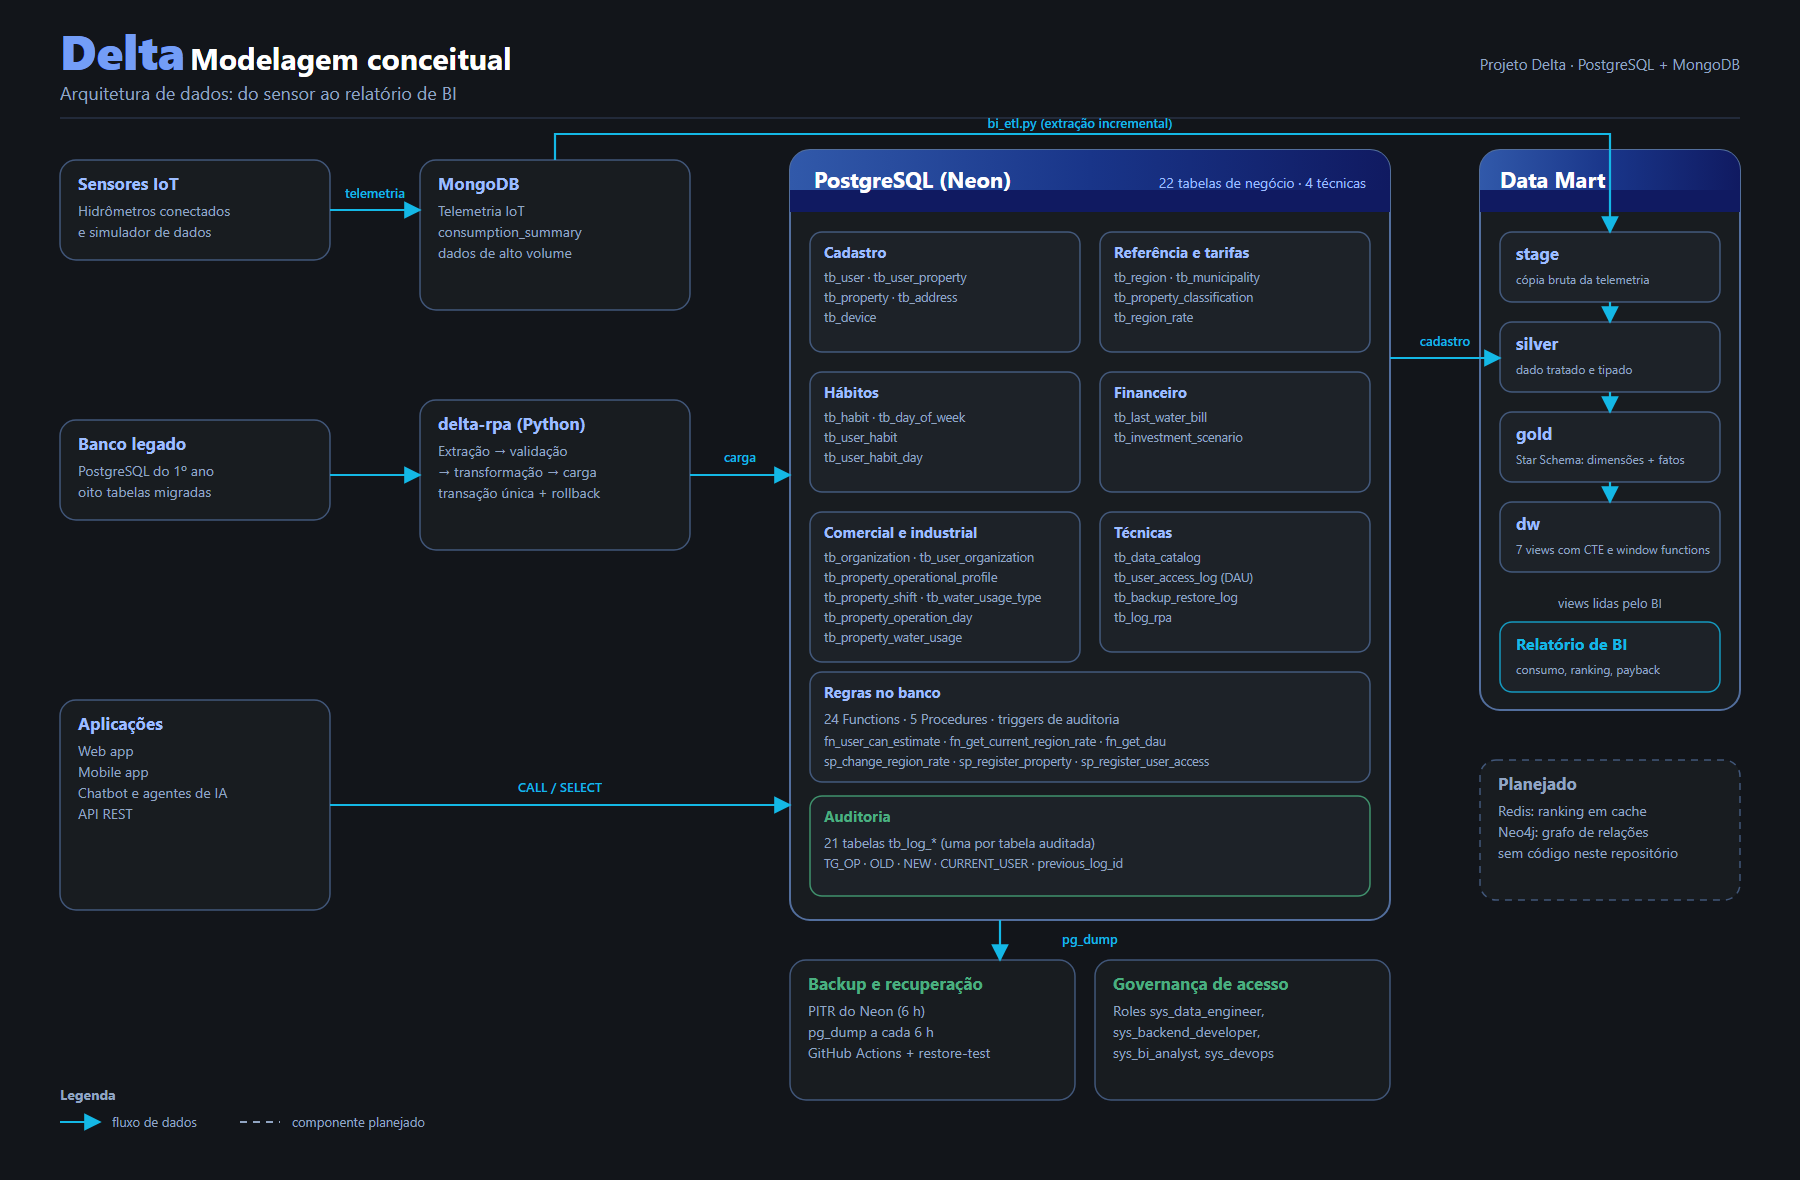
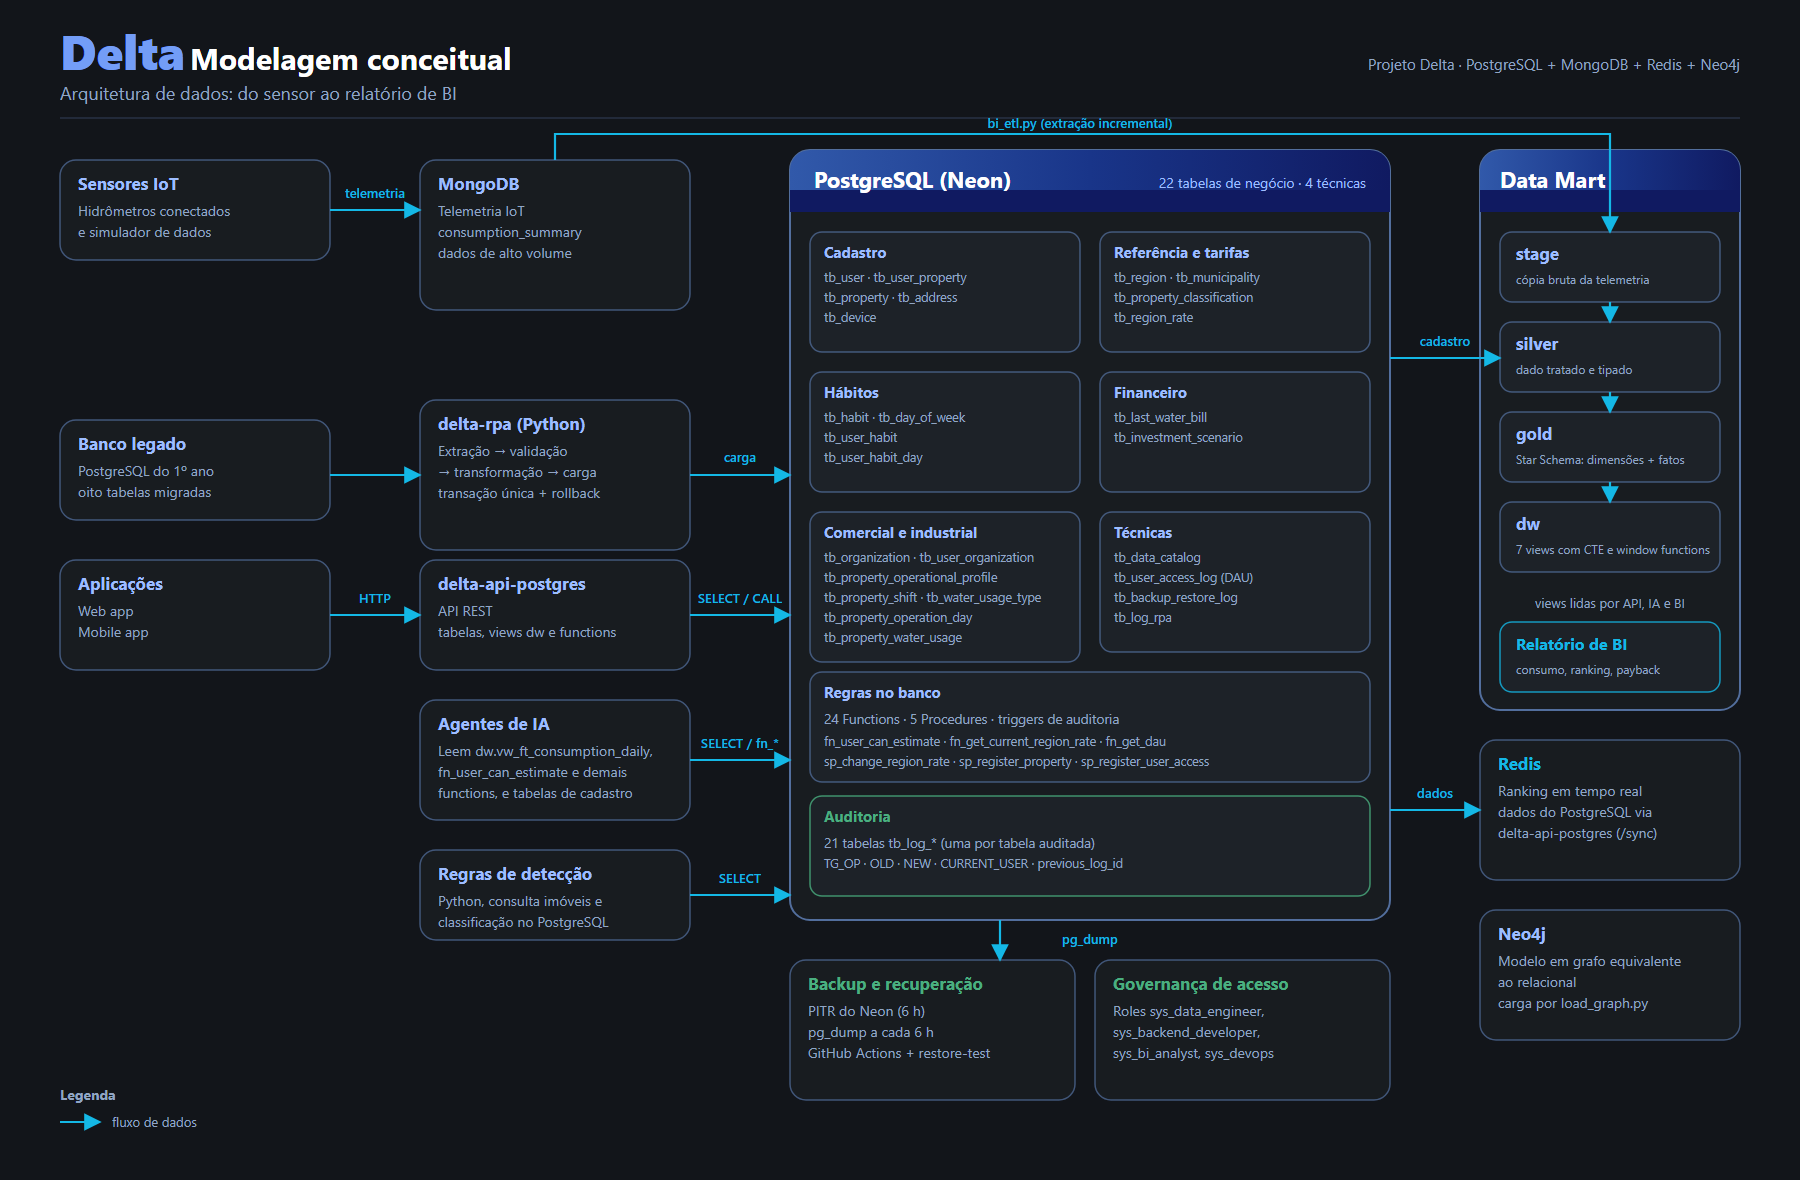
docs: atualiza modelagem conceitual com Redis e consumidores do PostgreSQL

diff --git a/DADOS/SQL/camada-bi.md b/DADOS/SQL/camada-bi.md
@@ -291,9 +291,12 @@ correspondente no Mongo ainda.
 
 ---
 
-## 9. Escopo e integrações
+## 9. Quem consome o PostgreSQL
 
-- **Telemetria e simulador**: a camada `stage` recebe a telemetria do MongoDB (`consumption_summary`). O `delta-hardware-data-simulator` gera os documentos e a resolução para a propriedade é feita por `tb_device.device_id` na carga `silver`.
-- **Perfil comercial/industrial e agentes de IA**: as Functions organizacionais (`fn_user_access_kind`, `fn_organization_forecast_context` e demais, ver `otimizacao.md`) resolvem o acesso e o contexto de usuários vinculados por `tb_user_organization` e ficam disponíveis no banco para API e agentes.
-- **Redis/Neo4j**: fazem parte da arquitetura de dados (ver `DADOS/infra-bancos.md`, seção 4.2) e não possuem código neste repositório. Um ranking Web em Redis (`ZSET`) funcionaria como cache de leitura alimentado por `dw.vw_ft_property_ranking`, e não como substituto dela.
-- **Coleções MongoDB do perfil industrial** (alerta, escalonamento, relatório agendado): pertencem ao repositório do MongoDB. Este repositório trata somente do PostgreSQL.
+| Consumidor | O que lê |
+|---|---|
+| `delta-api-postgres` (API REST, Java) | Tabelas de cadastro, as seis views `dw.vw_ft_*` de rankings e consumo (`AnalyticsController`), `sp_register_property` e `fn_calculate_water_cost` |
+| `delta-artificial-intelligence` (agentes de IA) | `dw.vw_ft_consumption_daily`, as Functions `fn_user_*` e `fn_organization_*` e tabelas como `tb_last_water_bill` e `tb_investment_scenario` |
+| `delta-business-rules` (regras de detecção) | `tb_user_property`, `tb_property` e `fn_get_property_classification_group` |
+| `delta-redis-database` (ranking em tempo real) | Propriedades e consumo do PostgreSQL, buscados pela `delta-api-postgres` na rota `/sync` |
+| Web app e mobile app | Dados do PostgreSQL pela `delta-api-postgres` |

diff --git a/DADOS/SQL/governanca-acesso.md b/DADOS/SQL/governanca-acesso.md
@@ -66,7 +66,6 @@ Permissões:
 - `ALL PRIVILEGES ON DATABASE` (conectar, criar objetos, uso de espaço temporário)
 - Responsável por backup, restore e administração geral do PostgreSQL (operações executadas fora do SQL de grants, via acesso de sistema/infra)
 
-> **Gerenciamento de roles:** o script atual não concede `CREATEROLE` nem privilégios de gerenciamento de usuários e roles ao `sys_devops`. Criar, alterar e remover roles pelo próprio banco depende de `ALTER ROLE sys_devops CREATEROLE;` explícito ou de acesso de superusuário via infraestrutura.
 
 ---
 

diff --git a/GERAL/integracao-web-app-api.md b/GERAL/integracao-web-app-api.md
@@ -83,10 +83,3 @@ A API não possui campos para os itens abaixo, que ficam apenas no estado do fro
 - usos e fonte de água;
 - consumo médio mensal.
 
----
-
-## Limites da integração atual
-
-- O cadastro de usuário e o de empresa ainda não foram validados contra uma API em execução; os testes automatizados do front usam `fetch` simulado.
-- O segmento da empresa é texto livre no formulário e a API aceita quatro valores; hoje a conversão é por palavra-chave.
-- Metas, alertas, vazão e clima não têm endpoint e aparecem como indisponíveis.
